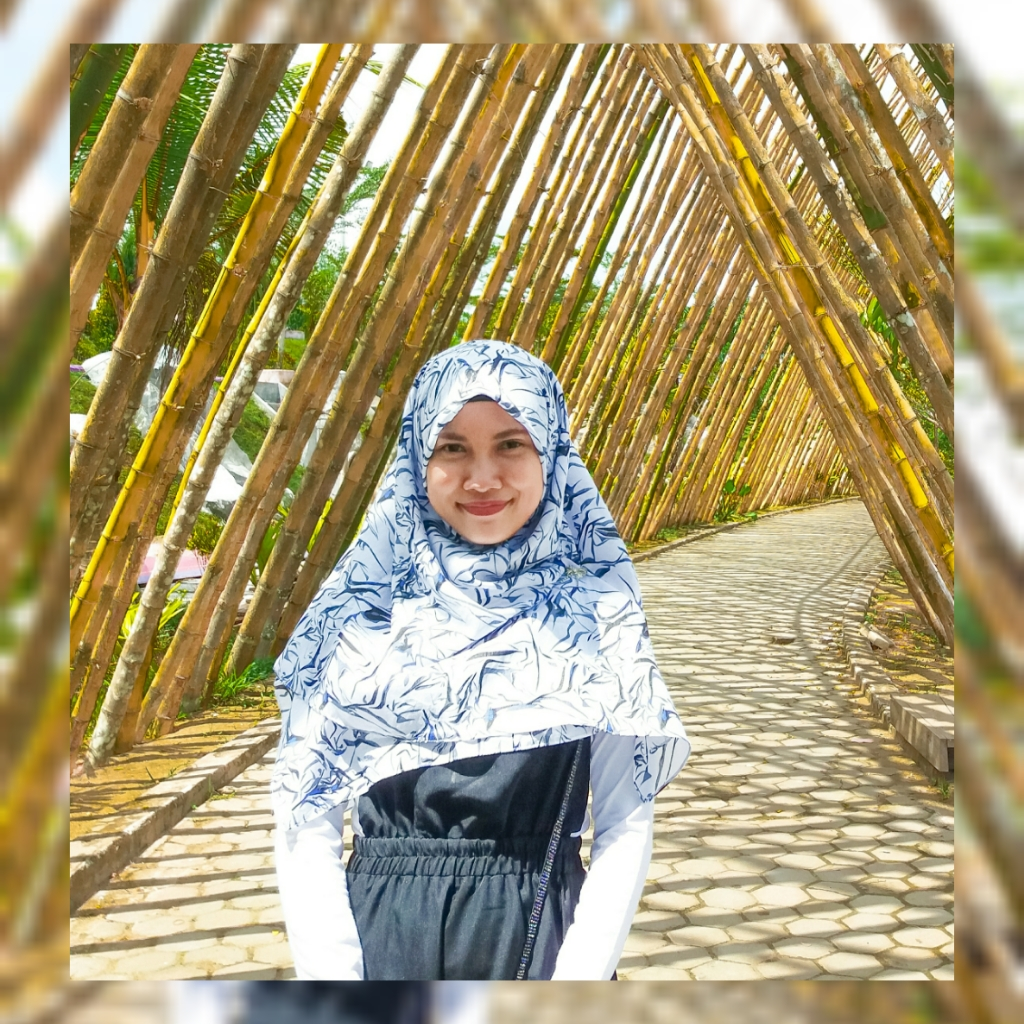
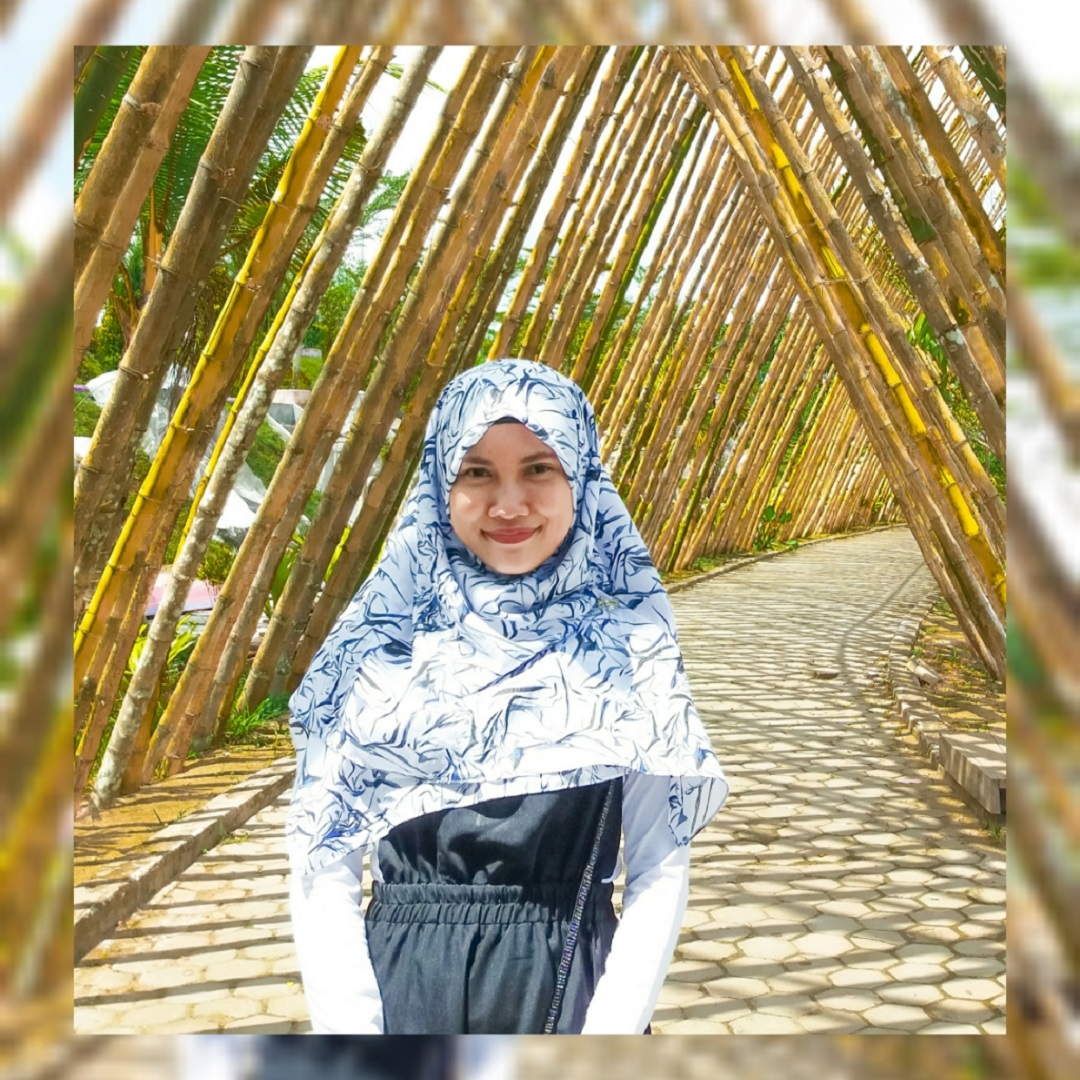
ganti ukuran gambar

diff --git a/index.html b/index.html
@@ -36,10 +36,10 @@
 <!--Start-top-wrapper--> 
     <div id = "home "class="top-wrapper ">
         <div class="container ">
-          <h1>WELCOME to OUR WEBSITE</h1>
+          <h1>WELCOME TO OUR WEBSITE</h1>
           <h1>It's Nice to Meet You</h1>
           <div class="btn-wrapper ">
-            <a href="# " class="btn facebook "><span class="fa fa-facebook "></span>FACEBOOK</a>
+            <a href="# " class="btn facebook "><span class="fa fa-facebook "></span>facebook</a>
           </div>
         </div>
     </div>
@@ -54,7 +54,7 @@
       <div class="container ">
         <div class="heading ">
           <h1>OUR AMAZING TEAM</h1>
-          <h3>B09</h3>
+          <h1>B09</h1>
         </div>
         <div class="member ">
           <div class="member-icon ">
